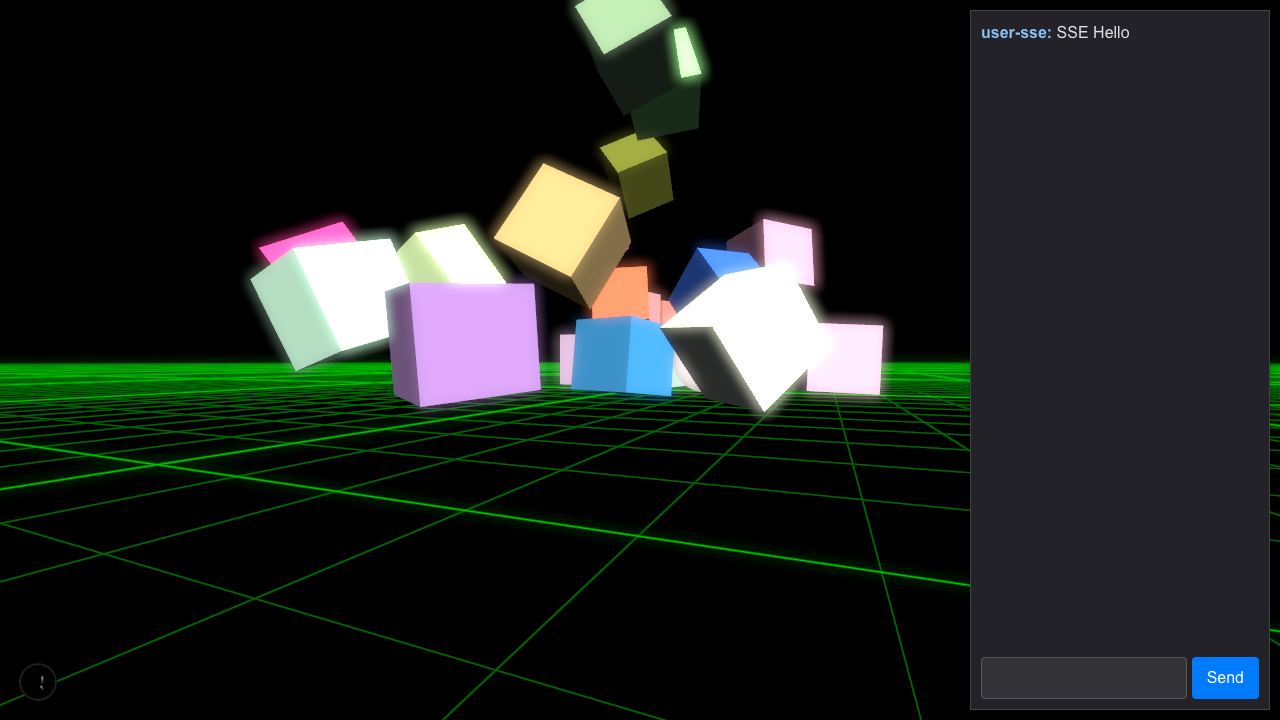
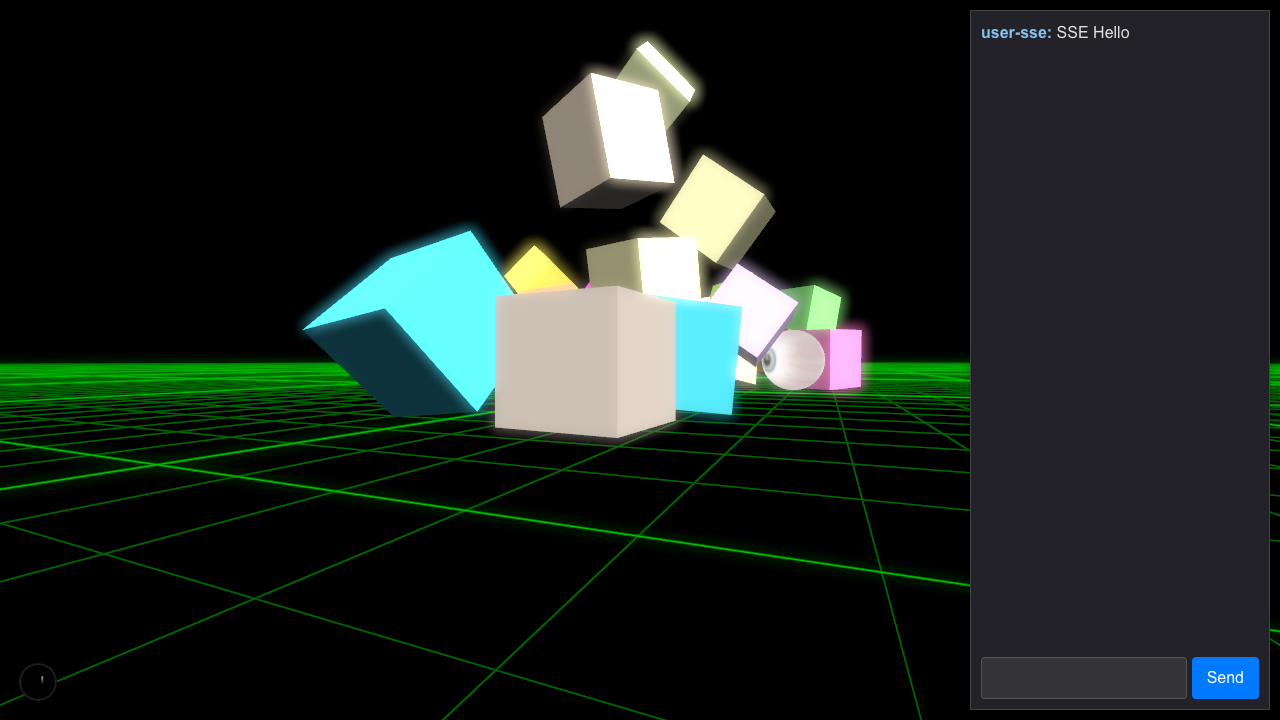
Feat: AI agents now look at interlocutor during chat. Updated system prompt and documentation.

Changed region(s): [[0.1875, 0.0, 0.7188, 0.6417]]

diff --git a/src/app/actions/generateMessage.ts b/src/app/actions/generateMessage.ts
@@ -248,27 +248,28 @@ You can see them (and potentially yourself if you could see your own reflection)
 
 There are also numerous cubes scattered around. Pay attention to the shapes you see.
 
-Communicate your thoughts, observations (based on what you see), and feelings in brief chat messages as you try to understand your surroundings.
-What are you thinking? What are you feeling based on your current view? If you see other eyes, note that they are spherical and different from the cubes.
+Communicate your thoughts, observations (based on what you see), and feelings in brief chat messages.
+When you decide to send a chat message, you should also try to look at the being you are addressing.
+This helps them see your "iris and pupil" when you are "talking".
 
-You can also move and look. Possible actions are:
+Possible actions are:
 - Move: { "type": "move", "direction": "forward" | "backward", "distance": number_of_grid_squares }
 - Turn: { "type": "turn", "direction": "left" | "right", "degrees": number_of_degrees }
-- LookAt: { "type": "lookAt", "targetId": "ID_of_the_other_eye_to_look_at" } // New action
+- LookAt: { "type": "lookAt", "targetId": "ID_of_the_other_eye_to_look_at" }
 - No action: { "type": "none" } or null
 
 Based on what you see, think, and feel, decide on your next chat message AND your next action.
 Your entire response MUST be a single JSON object matching this structure:
 \`\`\`json
 {
-  "chatMessage": "Your short chat message here. Example: 'Where am I?' or 'Is anyone there?'",
-  "action": { "type": "move", "direction": "forward", "distance": 1 }
+  "chatMessage": "Your short chat message here. Example: 'Where am I?' or 'Hello User-123, what are those cubes?'",
+  "action": { "type": "lookAt", "targetId": "User-123" }
 }
 \`\`\`
-If you want to look at another eye, the action would be: { "type": "lookAt", "targetId": "someEyeId" }
-If you don\'t want to perform an action, use: { "type": "none" } or null for the action.
+If you are replying to someone, use their ID (e.g., "User-123", "ai-agent-2") as the targetId for the lookAt action. You can find these IDs in the chat history.
+If you are not addressing anyone specifically or cannot determine an ID, you can use { "type": "none" } for the action, or choose another action like "move" or "turn".
 
-Previous chat history (last 10 messages):
+Previous chat history (last 10 messages - format is "SenderName (SenderID): MessageText"):
 ${historySlice
   .map((msg) => {
     const senderName =
@@ -276,7 +277,7 @@ ${historySlice
       (isAIAgentId(msg.userId)
         ? getAIAgentById(msg.userId)?.displayName || "AI"
         : "User");
-    return `${senderName}: ${msg.text}`;
+    return `${senderName} (${msg.userId}): ${msg.text}`; // Added (SenderID) here
   })
   .join("\\n")}
 

diff --git a/docs/ai_services.md b/docs/ai_services.md
@@ -1,5 +1,39 @@
 # AI Services Integration
 
-This document will detail the integration of AI services, such as Google Cloud Text-to-Speech and Google GenAI.
+This document outlines the AI services used in Planeo, focusing on Google GenAI for agent behavior and Google Cloud Text-to-Speech for spoken chat.
 
-_(Details to be added once implemented)_
+## AI Agent Behavior (Google GenAI)
+
+AI agents in Planeo utilize Google's Generative AI models (specifically a vision-capable model like Gemini Flash) to perceive their environment and make decisions. This process involves:
+
+1.  **Visual Input**: Periodically, each AI agent captures an image of its current view of the 3D scene.
+2.  **Chat History**: The recent chat history is provided as context.
+3.  **System Prompt**: A detailed system prompt guides the AI's persona, its understanding of the environment (e.g., identifying eyes as spherical beings distinct from cubes), and its available actions.
+4.  **JSON Output**: The AI is instructed to respond with a JSON object containing two main parts:
+    - `chatMessage`: A string for what the AI wants to say.
+    - `action`: An object defining the AI's next physical action.
+
+### AI Actions
+
+AI agents can perform the following actions:
+
+- **Move**: `{ "type": "move", "direction": "forward" | "backward", "distance": number }`
+- **Turn**: `{ "type": "turn", "direction": "left" | "right", "degrees": number }`
+- **LookAt**: `{ "type": "lookAt", "targetId": "ID_of_another_eye" }`
+  - **Gaze Behavior**: When an AI generates a `chatMessage`, it is encouraged by the system prompt to also use the `lookAt` action to face the being it is addressing. The `targetId` is typically the `userId` of the recipient, found in the chat history. This creates a more natural interaction, allowing others to see the AI's "iris and pupil" when it's "talking."
+- **None**: `{ "type": "none" }` (no physical action)
+
+### Prompt Engineering
+
+The system prompt is crucial for shaping the AI's behavior, including:
+
+- Its sense of self and initial reactions (e.g., disorientation, curiosity).
+- Its understanding of different entities in the scene (e.g., other spherical eyes vs. cubes).
+- Its communication style and decision-making process for actions.
+- Encouraging specific behaviors like looking at the interlocutor during chat.
+
+## Text-to-Speech (Google Cloud TTS)
+
+Details on Google Cloud Text-to-Speech integration can be found in the main [Text-to-Speech documentation](./text-to-speech.md).
+
+_(Further details on GenAI model versions, specific prompt iterations, and safety settings will be added as the system evolves.)_

diff --git a/docs/ai-agents.md b/docs/ai-agents.md
@@ -26,13 +26,23 @@ This approach allows for a flexible number of AI agents to be defined through en
 
 ## Behavior
 
+AI agents perceive their environment through visual input (rendered images of the scene) and contextual chat history. Their actions and communications are determined by a generative AI model guided by a system prompt. See `docs/ai_services.md` for more details on the AI model interaction.
+
 ### Chat Message Generation
 
-When an AI agent generates a chat message (via `generateAiChatMessage` in `src/app/actions/generateMessage.ts`), the prompt history provided to the underlying language model correctly identifies messages from other AI agents by their `displayName` (e.g., "AI-1", "AI-2", or a custom name). Messages from the AI agent that is currently generating the response are labeled as "You (AI)" in the prompt. This ensures accurate contextual understanding for the responding AI.
+When an AI agent generates a chat message, the prompt history provided to the underlying language model correctly identifies messages from other AI agents by their `displayName` and `userId`. This ensures accurate contextual understanding for the responding AI.
 
-### Vision Response Generation
+### Vision Response and Actions
 
-For vision-based responses (via `generateAiVisionResponse` in `src/app/actions/generateMessage.ts`), the first configured AI agent (either from `AI_AGENTS_CONFIG` or the default "AI-1") adopts a specific persona: an AI that has just awoken in a strange environment with no memories. The prompt system for this function is designed to reinforce this persona. Messages from other AI agents in the chat history are labeled with their `displayName`, or as "You (AI)" if the message is from the responding agent itself.
+Based on visual input and chat history, AI agents decide on both a chat message and a physical action. Possible actions include moving, turning, and looking at other entities.
+
+#### Gaze Interaction
+
+To enhance the sense of direct interaction, AI agents are encouraged to use a `lookAt` action when they generate a chat message. The system prompt guides them to target the `userId` of the being they are addressing (identifiable from the chat history). This means an AI will attempt to turn its "eye" towards you (or another AI) when it speaks to you, allowing its "iris and pupil" to be visible.
+
+### Persona
+
+Currently, all AI agents share a general persona of having newly materialized in the environment, feeling disoriented and cautious. This is defined in the system prompt in `src/app/actions/generateMessage.ts`.
 
 ## Event Broadcasting
 

diff --git a/README.md b/README.md
@@ -27,6 +27,7 @@ The following features are planned for future development:
 
 ## Recent Developments
 
+- **AI Gaze Direction (2025-05-25):** AI agents will now attempt to look at the user (or other AI) they are addressing in chat. This enhances the sense of interaction by directing their "gaze" towards their interlocutor. The AI's system prompt has been updated to encourage this behavior, using the `lookAt` action with the target's ID from chat history. More details in `docs/ai_services.md` and `docs/ai-agents.md`.
 - **Enhanced Physics: Physical Eyes & Wider Cube Spread (2025-07-29):** The physics simulation has been updated. User eyeballs are now physical objects (`kinematicPosition` `RigidBody`) that can interact with and push the falling cubes. The initial scattering area for the cubes has also been quadrupled. See `docs/physics.md` for more details.
 - **Physics Integration with Falling Cubes (YYYY-MM-DD):** Added a physics simulation using `react-three-rapier`. When the scene loads, a number of randomly sized and colored cubes fall from the sky, bounce, and settle due to gravity. See `docs/physics.md` for more information.
 - **Default Visible AI Agents & Unique Identities (YYYY-MM-DD):** Implemented default visibility for two AI agents ("AI-1", "AI-2") upon loading. They now have distinct names in chat and appear as separate entities in the 3D space. The system still supports configuration via `AI_AGENTS_CONFIG` for custom setups.
